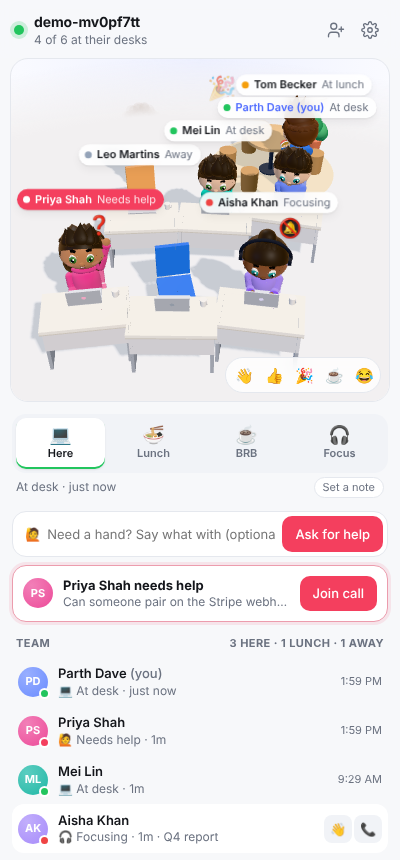
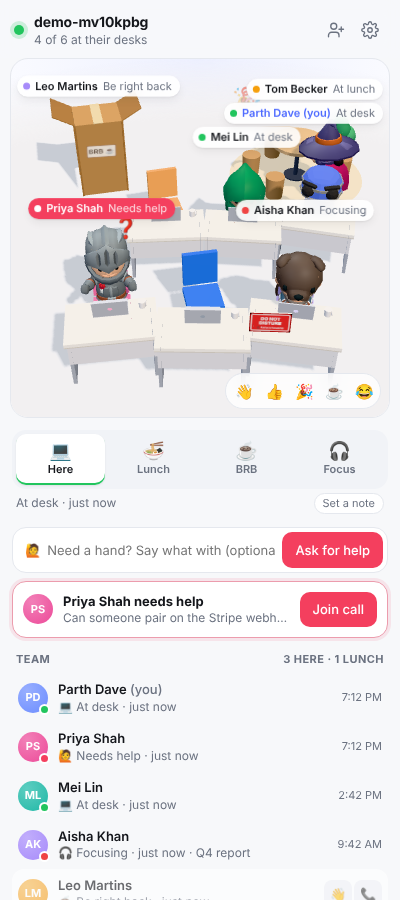
updated readme and refactor

diff --git a/README.md b/README.md
@@ -1,21 +1,28 @@
 # Deskmate: your team's virtual desk
 
-Deskmate is a live 3D desk where everyone on your team sits together. You can see at a glance who's at their desk, who's at lunch, who's focusing and who's away. When you're stuck, one click asks the team for help. A teammate taps the pop-up and you're both in an audio huddle within a few seconds.
+Deskmate is a live 3D desk where everyone on your team sits together. You can see at a glance who's at their desk, who's at lunch, who's focusing and who's away. When you're stuck, one click asks the team for help. A teammate taps the pop-up and you're both in the same Google Meet within a few seconds.
 
 It has three parts:
 
 | Part | What it does |
 |---|---|
-| **Chrome extension** (`extension/`) | Desk in Chrome's side panel, help pop-ups on whatever page you're on, the call window, auto-away. Runs on macOS, Windows, Linux and ChromeOS. |
-| **Mac menu-bar app** (`companion/`) | Icon and live count in the top menu bar, a one-click desk dropdown, help/call bubbles that float over **every** app (even full-screen), and global shortcuts. |
-| **Server** (`server/`) | A small Node WebSocket service for presence, help requests and WebRTC call signalling. It never sees or stores audio. |
+| **Chrome extension** (`extension/`) | Desk in Chrome's side panel, help pop-ups on whatever page you're on, Google Meet hand-off, auto-away. Runs on macOS, Windows, Linux and ChromeOS. |
+| **Mac menu-bar app** (`companion/`) | Icon and live count in the top menu bar, a one-click desk dropdown, help/call bubbles that float over **every** app (even full-screen), global shortcuts, and macOS Focus → Deskmate Focus. |
+| **Server** (`server/`) | A small Node WebSocket service for presence, help requests and sharing the Meet link (plus signalling for the optional built-in audio). It never sees or stores audio. |
 
-![Characters](docs/screenshots/characters.png)
+![The six characters: Robo, Knight, Mage, Barbarian, Rogue and Hooded Rogue](docs/screenshots/characters.png)
 
-![Desk, light](docs/screenshots/desk-light.png) ![Desk, dark](docs/screenshots/desk-dark.png)
+<p>
+  <img src="docs/screenshots/desk-light.png" width="360" alt="Desk in light mode">
+  <img src="docs/screenshots/desk-dark.png" width="360" alt="Desk in dark mode">
+</p>
 
-![Help bubble](docs/screenshots/help-bubble.png)
-![Call invite](docs/screenshots/call-invite-bubble.png)
+On the desk above: Priya is asking for help (hand up), Aisha is in Focus (her *Do Not Disturb* board is up), Tom is at the café table for lunch and Leo is BRB, hidden inside his box in the corner.
+
+<p>
+  <img src="docs/screenshots/help-bubble.png" width="390" alt="Help bubble: Mei Lin needs help, Join / Not now">
+  <img src="docs/screenshots/setup.png" width="300" alt="Setup: pick your character">
+</p>
 
 ---
 
@@ -55,26 +62,29 @@ node test/demo.cjs --live   # keeps 5 bots online in a team; set TEAM=<your code
 
 **The 3D desk**
 
-- **Characters in an animated-film style:** big glossy eyes that blink and follow what they're doing, thick expressive brows, a button nose, a swoopy quiff, a hoodie with drawstrings, joggers with a side stripe and sneakers in your colour. Pick shirt colour, skin tone, hair colour, a hairstyle (short, long, bun, curly, spiky) and glasses (none, shades, round). Everything is built in code, so there are no model files to download.
-- **Spring-driven motion:** poses settle with a little overshoot, characters hop when they react or need help, and squash when they sit down. At their desk they type on the laptop in bursts, pausing to read the screen. In the setup preview they wave, then fold their arms.
+- **Six rigged 3D characters:** Robo, Knight, Mage, Barbarian, Rogue and Hooded Rogue. Pick one during setup (or later in Settings) and everyone's desk updates straight away. The models are rigged and animated glTF files in `extension/models/` (KayKit Adventurers and three.js RobotExpressive, both CC0 — see `extension/models/CREDITS.md`).
+- **Real animation clips plus a pose layer:** idle, walk, sit, cheer and wave come from the models; Deskmate adds typing at the laptop, a raised hand and head turns on top. Poses settle with springs, so movement has a little overshoot.
 - Up to 4 people share one bench. Bigger teams get a second, staggered row behind so everyone stays large and visible.
-- Everyone sits at the shared desk and types away. Going to lunch, your avatar **walks over to the café table and eats**. Going away, it walks off, your laptop closes and your chair turns. Focus mode puts headphones on, and calls add a headset and mic.
+- Everyone sits at the shared desk and types away. Going to lunch, your character **walks over to the café table**. **BRB** walks you to the corner and a cardboard box drops over you. Going away, your character walks off, your laptop closes and your chair turns. **Focus** pops a *Do Not Disturb* board up on your desk.
 - Raised hand plus a bouncing **Needs help** tag when someone asks for help.
 - Emoji reactions (👋 👍 🎉 ☕ 😂) float above your head on everyone's screen.
 - Drag to look around, scroll to zoom, double-click to reset. Light and dark mode follow your system.
 - Click anyone to see their status, local time and note, with **Wave** and **Call** buttons.
 
-**Help → huddle in two clicks**
+**Help → Google Meet in two clicks**
 
 - Type what you need, or nothing, and press **Ask for help** (or `⌥⇧H` from anywhere).
-- Teammates get an animated bubble on the right side of the screen showing your 3D avatar raising its hand, plus a system notification.
-- The first person to tap **Join call** claims it. Everyone else's bubble changes to "Priya is on it ✓", so no one doubles up.
-- Both call windows open automatically. Calls are peer-to-peer WebRTC audio with echo cancellation and noise suppression, a speaking ring, mute (`M`), add-a-teammate, and up to 6 people.
-- Anyone can **Join** a huddle in progress from the desk.
+- Teammates get a round bubble on the right of the screen: your character with its hand raised and "*{you}* needs help", with **Join** / **Not now**. (A system notification is only used if the bubble can't be shown.)
+- The first person to tap **Join** claims it. Everyone else's bubble changes to "Priya is on it ✓", so no one doubles up.
+- The helper's browser opens `meet.google.com/new` with their Google account. As soon as Meet gives the meeting its code, Deskmate shares the link and it **opens automatically for the person who asked**. If no link arrives within 15 seconds (say the helper joined from the Mac app only), the asker's browser creates the Meet instead.
+- Calling someone from their card works the same way: they get a bubble, tap **Join**, and land in your Meet.
+- Either person can tap **End call** in the panel to close the request. Anyone can **Join** a call in progress from the desk.
+- Prefer no Google Meet? **Settings → Advanced → Calls open in → Built-in audio** switches back to peer-to-peer WebRTC audio (mute, speaking ring, up to 6 people).
 
 **Fewer interruptions**
 
 - **Focus mode** silences help pop-ups and waves. Direct calls still reach you, silently.
+- **Mac Focus sync** (Mac app): turning on Do Not Disturb or any Focus on your Mac puts you in Deskmate Focus, and turning it off puts you back. macOS only exposes this to apps with **Full Disk Access**; the app explains this once and the tray menu shows whether it can see your Focus. Toggle with **Match my Mac Focus**.
 - If the Mac app is running, the Chrome extension stays quiet so you never get two pop-ups.
 - Bubbles time out on their own. Hovering pauses the timer.
 
@@ -109,7 +119,7 @@ docker run -p 8787:8787 -e ALLOWED_DOMAIN=elevationservices.co.uk deskmate-serve
 | `TEAM_CODES` | Comma-separated allow-list of team codes (empty = any) |
 | `ICE_SERVERS` | JSON list of STUN/TURN servers handed to calls (see below) |
 
-**TURN for corporate networks:** peer-to-peer audio works on most networks with the default Google STUN servers. Strict firewalls need a TURN relay, either self-hosted [coturn](https://github.com/coturn/coturn) or a managed service such as Twilio, Cloudflare Calls or Metered:
+**TURN for corporate networks** (only for *Built-in audio* calls; Google Meet needs nothing extra): peer-to-peer audio works on most networks with the default Google STUN servers. Strict firewalls need a TURN relay, either self-hosted [coturn](https://github.com/coturn/coturn) or a managed service such as Twilio, Cloudflare Calls or Metered:
 
 ```bash
 ICE_SERVERS='[{"urls":"stun:stun.l.google.com:19302"},{"urls":"turn:turn.example.com:3478","username":"u","credential":"p"}]'
@@ -130,7 +140,7 @@ Change `DEFAULT_SERVER` in `extension/lib/status.js` to your `wss://` URL so nob
 cd companion && npm install && npm run dist     # → dist/Deskmate-x.y.z.dmg
 ```
 
-To hand it out without macOS security warnings, sign and notarise it with an Apple Developer ID (`CSC_LINK`, `APPLE_ID`, etc. for electron-builder). The app runs as a menu-bar-only app (no Dock icon), asks for microphone access the first time you join a call, and can launch at login (right-click the menu-bar icon).
+To hand it out without macOS security warnings, sign and notarise it with an Apple Developer ID (`CSC_LINK`, `APPLE_ID`, etc. for electron-builder). The app runs as a menu-bar-only app (no Dock icon), can launch at login (right-click the menu-bar icon), and opens Meet links in your default browser when you don't have the Chrome extension running. For Mac Focus sync, each person turns on Full Disk Access for Deskmate once (or push a PPPC profile via MDM).
 
 ---
 
@@ -162,14 +172,14 @@ The scope used is `chat.users.availability.readonly`. Deskmate never writes to y
  │  • badge, notifications       │          │  • always-on-top bubbles     │
  │ side panel → 3D desk (three)  │          │ panel → same desk UI         │
  │ content script → page bubbles │          │ bubble/call → same pages     │
- │ call window → WebRTC audio    │          │ call window → WebRTC audio   │
+ │ Meet tab (or built-in audio)  │          │ opens Meet link / built-in   │
  └──────────────┬────────────────┘          └──────────────┬───────────────┘
                 │      presence / help / call signalling (wss)
                 └────────────────────┬──────────────────────┘
                               ┌──────▼──────┐
                               │  server/    │  in-memory rooms per team code
                               └─────────────┘
-           audio flows peer-to-peer (DTLS-SRTP encrypted), never through the server
+     calls happen in Google Meet; the server only passes the meet.google.com link along
 ```
 
 The Mac app reuses the extension's UI files. `npm run sync` copies them in, and `preload.cjs` provides the same `deskBridge` interface, so there's one desk to maintain.
@@ -179,8 +189,9 @@ The Mac app reuses the extension's UI files. `npm run sync` copies them in, and 
 ## Privacy & security notes
 
 - The server keeps **nothing on disk**. Presence lives in memory and disappears when people disconnect.
-- Audio is end-to-end encrypted WebRTC. The server only relays connection set-up messages, and only between people in the same call.
-- The content script runs on web pages only to show the help bubble inside an isolated iframe. It never reads page content. The extension doesn't request the `tabs` permission.
+- Calls run in Google Meet under each person's own Google account. The server only passes the Meet link between the asker and the helper, and only accepts real `https://meet.google.com/xxx-xxxx-xxx` links.
+- With *Built-in audio*, calls are encrypted peer-to-peer WebRTC; the server only relays set-up messages between people in the same call.
+- The content script runs on web pages only to show the help bubble inside an isolated iframe. It never reads page content. The extension doesn't request the `tabs` permission; its only site permission is `meet.google.com`, used to read the new meeting's code from the tab it opened.
 - **MVP trust model:** anyone who knows the team code and the server URL can join. Lock it down with `ALLOWED_DOMAIN` and `TEAM_CODES`, or add Google sign-in verification (roadmap item 1) before rolling it out widely.
 
 ---
@@ -190,13 +201,14 @@ The Mac app reuses the extension's UI files. `npm run sync` copies them in, and 
 ```bash
 npm install && npx playwright install chromium   # once, at the repo root
 cd server && npm install && cd ..
-npm test                  # protocol rules: status priority, help claims, call isolation, grace period
+npm test                  # protocol rules: status priority, help claims, Meet links, call isolation, Mac Focus parsing
 npm run server &          # then, with the server running:
-npm run test:e2e          # 3 real Chrome profiles: statuses, help bubble, WebRTC call, Focus mode
-npm run demo              # screenshots of a 6-person desk (light + dark) → test/shots
+npm run test:e2e          # 3 real Chrome profiles: statuses, help bubble, built-in call, End call, Focus mode
+npm run test:meet         # 2 profiles: Join → helper's Meet → same link opens for the asker (meet.google.com is stubbed)
+npm run demo              # screenshots of a 6-person desk (light + dark) and the help bubble → test/shots
 ```
 
-The end-to-end test loads the real extension into three Chrome profiles. It checks that statuses sync, that the help bubble appears on an ordinary web page, that clicking **Join call** opens call windows for both people and connects WebRTC audio, that Focus mode suppresses pop-ups, and that hanging up notifies the other person.
+The end-to-end test loads the real extension into three Chrome profiles. It checks that statuses sync, that the help bubble appears on an ordinary web page, that clicking **Join** connects both people (built-in audio), that Focus mode suppresses pop-ups, and that **End call** closes it for the other person. The Meet test checks the Google Meet hand-off end to end.
 
 ---
 
@@ -205,7 +217,7 @@ The end-to-end test loads the real extension into three Chrome profiles. It chec
 1. **Google sign-in verification on the server**: verify a Google ID token on connect so identity can't be spoofed.
 2. **Calendar-aware status**: auto 📅 *In a meeting* from Google Calendar, plus "free in 12 min" hints on the help button.
 3. **Write Focus back to Google Chat** (`MarkAsDoNotDisturb`) so one switch silences both.
-4. **Screen share** in huddles (one `getDisplayMedia` track) and push-to-talk.
+4. **Google Meet API**: create the Meet on the server with a Workspace service account so links are ready before anyone opens a browser.
 5. **Pods/zones**: several tables per team (Design, Dev, Support) with a walk-over to visit another pod.
 6. **Smart routing**: tag skills on people ("AWS", "Figma") and offer help requests to the right person first, then the whole team after 30 s.
 7. **Scheduled statuses**: "Lunch at 1:00 every weekday", working hours and time-zone shading on the desk.
@@ -217,14 +229,15 @@ The end-to-end test loads the real extension into three Chrome profiles. It chec
 
 ```
 extension/   Chrome MV3 extension (load this folder unpacked)
-  background.js        service worker: connection, idle, Google Chat, badge, notifications, call windows
-  lib/                 shared: client.js (protocol), avatar.js (3D character), toon.js (springs/easing), status.js, three.js
+  background.js        service worker: connection, idle, Google Chat, badge, bubbles, Google Meet hand-off
+  lib/                 shared: client.js (protocol), characters.js + mixamo.js (rigged models), toon.js (springs), status.js, three.js
+  models/              the six rigged .glb characters + manifest.json + CREDITS.md
   sidepanel/           the desk UI + setup/settings (also used by the Mac app)
   bubble/              animated help / call / wave pop-up
-  call/                WebRTC audio huddle window
+  call/                built-in WebRTC audio window (when Built-in audio is chosen)
   content/content.js   injects bubbles into the page you're viewing
-companion/   Electron menu-bar app (macOS first)
+companion/   Electron menu-bar app (macOS first); macfocus.js reads the Mac's Focus state
 server/      Node WebSocket presence + signalling server (+ Dockerfile)
-test/        protocol tests, end-to-end Playwright test, demo bots, gallery.html (every pose side by side)
+test/        protocol tests, end-to-end + Meet Playwright tests, demo bots, models.html (every character and pose)
 docs/        screenshots
 ```
